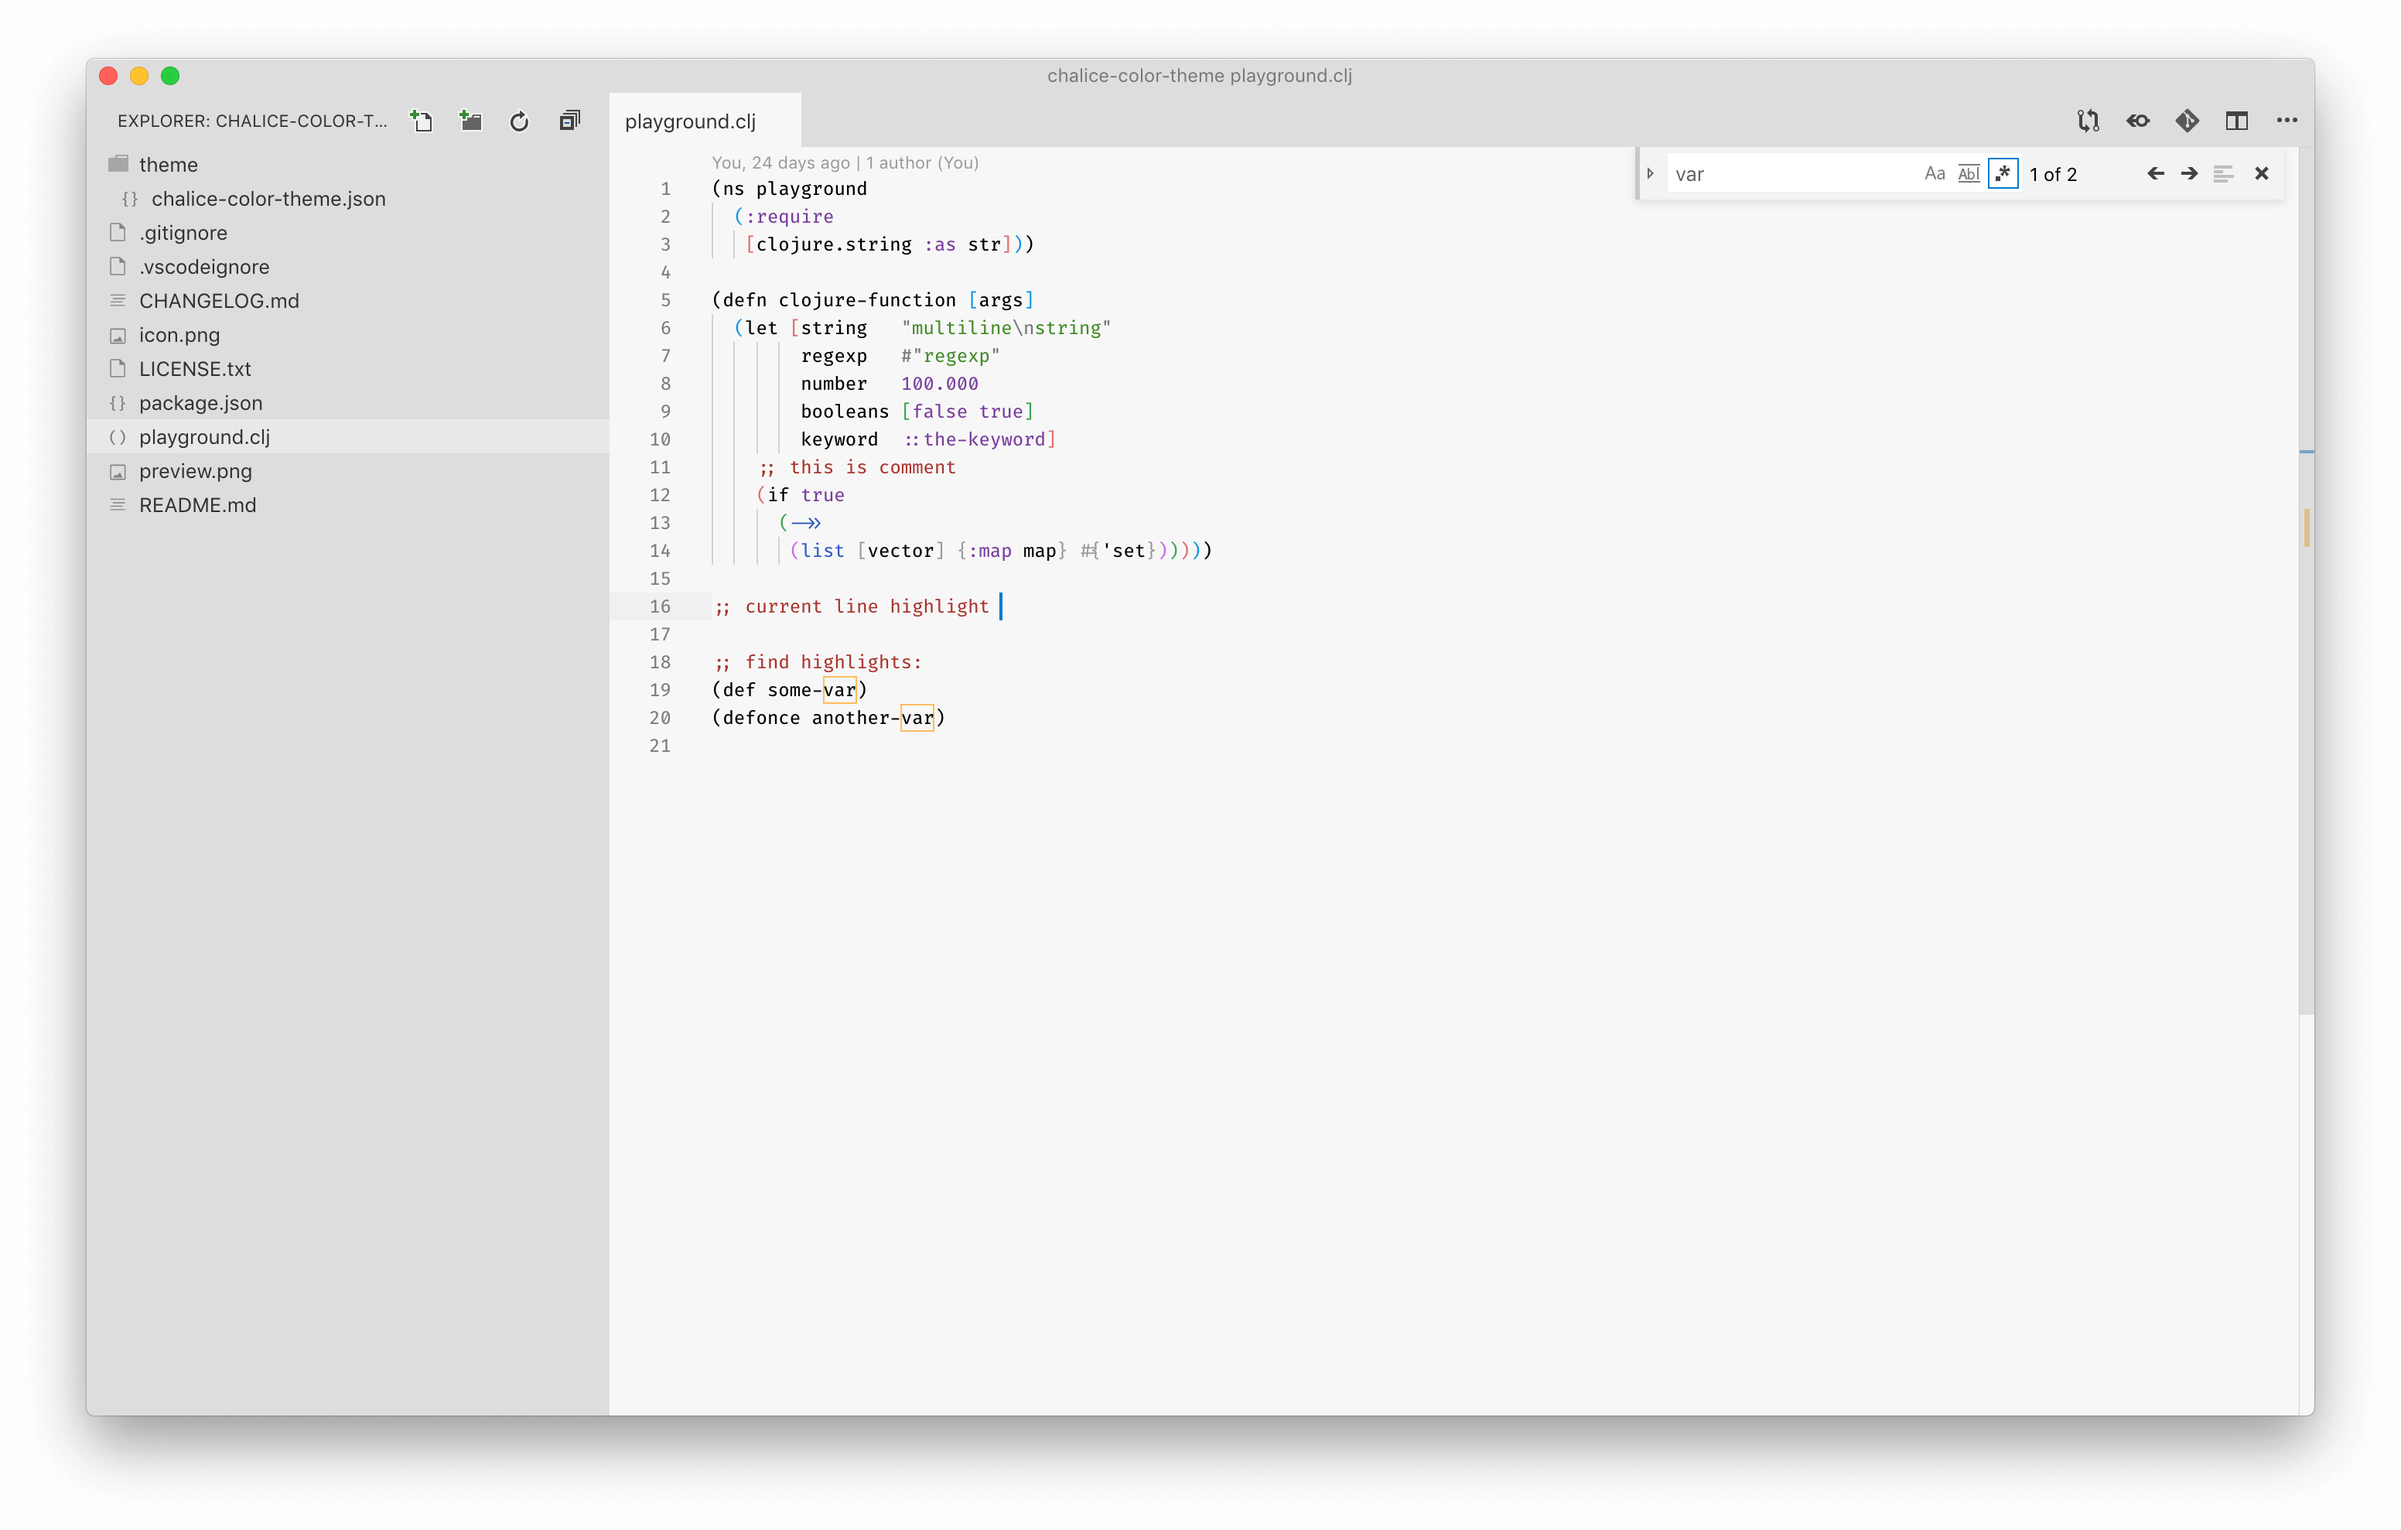
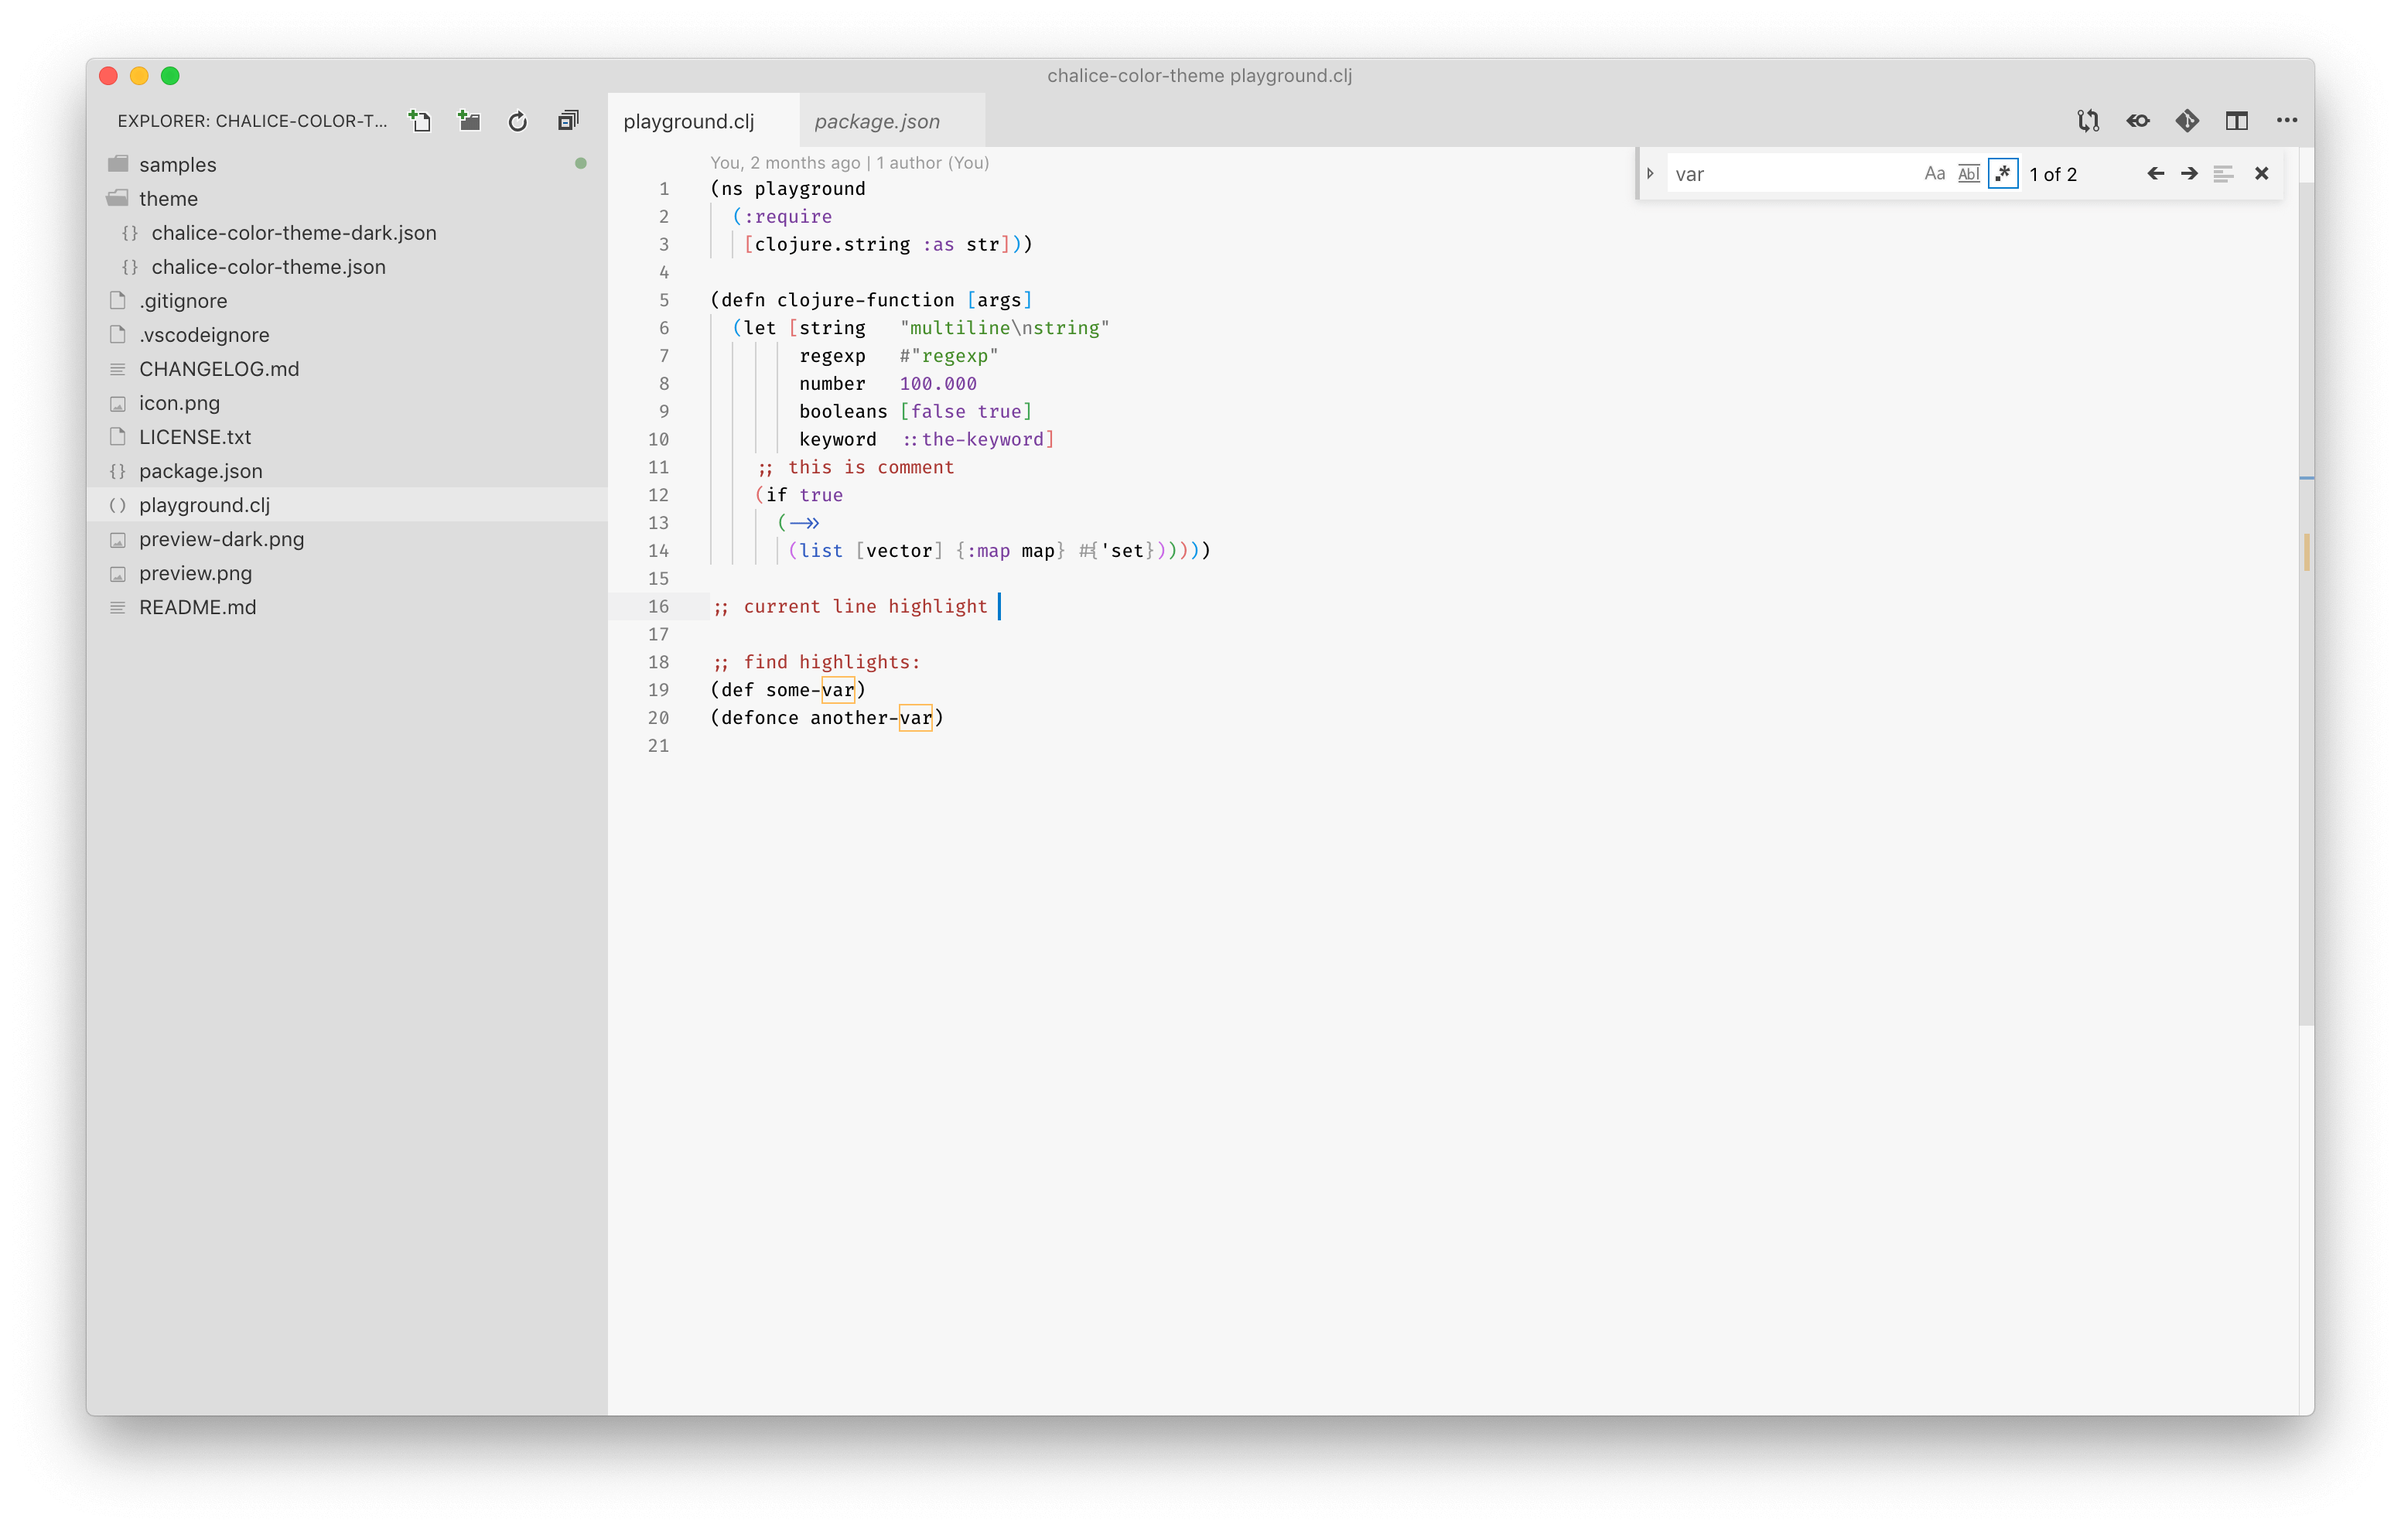
v0.1.1

diff --git a/README.md b/README.md
@@ -1,4 +1,6 @@
-## Chalice light+dark color themes with minimal amount of highlighting for [Visual Studio Code](http://code.visualstudio.com)
+## Chalice color themes
+
+Color themes with minimal amount of highlighting for [Visual Studio Code](http://code.visualstudio.com)
 
 [![License: MIT](https://img.shields.io/badge/license-MIT-orange.svg)](https://github.com/artlaman/chalice-color-theme/blob/master/LICENSE)
 [![Marketplace Version](https://vsmarketplacebadge.apphb.com/version/artlaman.chalice-color-theme.svg)](https://marketplace.visualstudio.com/items?itemName=artlaman.chalice-color-theme)
@@ -6,7 +8,10 @@
 
 Recommended to use with [Chalice icon theme](https://marketplace.visualstudio.com/items?itemName=artlaman.chalice-icon-theme)
 
-## Preview
+## Light theme preview
 
 <img src="https://github.com/artlaman/chalice-color-theme/raw/master/preview.png" title="Chalice light preview" />
+
+## Dark theme preview
+
 <img src="https://github.com/artlaman/chalice-color-theme/raw/master/preview-dark.png" title="Chalice dark preview" />
